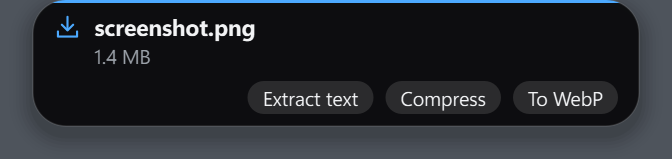
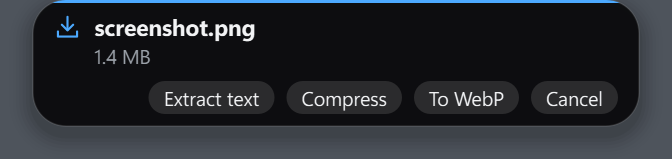
Cancel on a drop, and close the island when its content expires
Both from using the app.

A drop offered its actions with no way to decline. If you dropped the
wrong file, or changed your mind, the only exit was waiting twenty
seconds for the offer to time out, which is a long time to look at a
question you have already answered. Cancel now sits on the right of the
row where a dismiss belongs, and forgets the dropped paths so a later
action cannot act on a cancelled drop.

The second is a real bug. Content that opens the island by itself, like
a drop offer or an alert, never closed it again when it went away. The
clock then sat inside a full-size expanded card until the user happened
to hover the island and move off it, which reads as the window being
stuck. The island now collapses when auto-expanding content is replaced
by something ordinary, unless the cursor is over it, in which case
collapsing under someone's cursor while they read would be worse, or
unless it is pinned open by the control panel.

Neither was reachable by the existing tests, because nothing in the
suite ever let auto-expanding content expire. 12 tests covering the
offer, cancelling, and every branch of the collapse rule.

Changed region(s): [[0.2188, 0.5031, 0.9062, 0.7296]]

diff --git a/tests/test_dropzone.py b/tests/test_dropzone.py
@@ -1,0 +1,160 @@
+"""Drop-to-Action flow, and the island's collapse behaviour around it.
+
+Both of the tests about cancelling and collapsing exist because of
+feedback from using the app. The collapse one in particular was a bug the
+suite could never have caught, because nothing in it ever let a piece of
+auto-expanding content expire.
+"""
+
+from __future__ import annotations
+
+import pytest
+
+from core.config import DEFAULTS, Settings, _deep_merge
+from core.island_window import IslandWindow
+from core.model import IslandContent, Priority
+from core.theme import load_theme
+from workers.dropzone import DropActionProvider
+
+
+@pytest.fixture
+def settings(tmp_path):
+    return Settings(_deep_merge(DEFAULTS, {}), tmp_path / "settings.json")
+
+
+@pytest.fixture
+def provider(arbiter, qapp):
+    return DropActionProvider(arbiter)
+
+
+@pytest.fixture
+def window(qapp):
+    instance = IslandWindow(load_theme(None))
+    yield instance
+    instance.close()
+    instance.deleteLater()
+
+
+def make_png(path):
+    pytest.importorskip("PIL", reason="Pillow is an optional feature pack")
+    from PIL import Image
+
+    Image.new("RGB", (80, 60), (200, 40, 40)).save(path)
+    return path
+
+
+# ---- the offer -----------------------------------------------------------
+
+
+def test_dropping_a_file_offers_actions(provider, arbiter, tmp_path):
+    make_png(tmp_path / "shot.png")
+    provider.handle_drop([str(tmp_path / "shot.png")])
+    content = arbiter.current()
+    assert content.key == "drop.offer"
+    labels = [a.label for a in content.actions]
+    assert "Extract text" in labels
+    assert "Compress" in labels
+
+
+def test_the_offer_can_be_cancelled(provider, arbiter, tmp_path):
+    # Without this the only way out of a mis-drop was to wait for the
+    # offer to time out.
+    make_png(tmp_path / "shot.png")
+    provider.handle_drop([str(tmp_path / "shot.png")])
+    cancel = next(
+        a for a in arbiter.current().actions if a.label == "Cancel"
+    )
+    cancel.callback()
+    assert "drop.offer" not in [c.key for c in arbiter.candidates()]
+
+
+def test_cancel_is_the_rightmost_action(provider, arbiter, tmp_path):
+    make_png(tmp_path / "shot.png")
+    provider.handle_drop([str(tmp_path / "shot.png")])
+    assert arbiter.current().actions[-1].label == "Cancel"
+
+
+def test_cancelling_forgets_the_dropped_files(provider, arbiter, tmp_path):
+    make_png(tmp_path / "shot.png")
+    provider.handle_drop([str(tmp_path / "shot.png")])
+    provider.cancel()
+    # A later action must not operate on the files from a cancelled drop.
+    assert provider._paths == []
+
+
+def test_an_offer_expires_on_its_own(provider, arbiter, tmp_path):
+    make_png(tmp_path / "shot.png")
+    provider.handle_drop([str(tmp_path / "shot.png")])
+    assert arbiter.current().expires_at is not None
+
+
+def test_dropping_nothing_usable_is_reported(provider, arbiter, tmp_path):
+    missing = tmp_path / "gone.png"
+    provider.handle_drop([str(missing)])
+    content = arbiter.current()
+    assert content.key == "drop.result"
+    assert content.urgency.name == "WARNING"
+
+
+def test_a_directory_is_not_walked(provider, arbiter, tmp_path):
+    folder = tmp_path / "stuff"
+    folder.mkdir()
+    make_png(folder / "a.png")
+    provider.handle_drop([str(folder)])
+    # Recursing into a dropped folder could process thousands of files.
+    assert arbiter.current().key == "drop.result"
+
+
+# ---- the island collapsing again ----------------------------------------
+
+
+def expand_content(key: str) -> IslandContent:
+    return IslandContent(
+        key=key, priority=Priority.ACTIVITY, title="drop", auto_expand=True
+    )
+
+
+def plain_content(key: str = "ambient.clock") -> IslandContent:
+    return IslandContent(key=key, priority=Priority.AMBIENT, title="09:41")
+
+
+def test_auto_expanding_content_opens_the_island(window):
+    window.set_content(plain_content())
+    assert window.is_expanded() is False
+    window.set_content(expand_content("drop.offer"))
+    assert window.is_expanded() is True
+
+
+def test_the_island_closes_when_that_content_goes_away(window):
+    """The bug: it used to stay open around whatever replaced it.
+
+    Nothing collapsed the island once the thing that had opened it
+    expired, so the clock sat in a full-size card until the user happened
+    to hover the island and move away again.
+    """
+    window.set_content(expand_content("drop.offer"))
+    assert window.is_expanded() is True
+    window.set_content(plain_content())
+    assert window.is_expanded() is False
+
+
+def test_hovering_keeps_it_open(window):
+    window.set_content(expand_content("drop.offer"))
+    window._hovered = True
+    window.set_content(plain_content())
+    # Collapsing under the cursor while someone is reading would be worse.
+    assert window.is_expanded() is True
+
+
+def test_a_pinned_island_stays_open(window):
+    window.set_content(expand_content("drop.offer"))
+    window.set_pinned(True)
+    window.set_content(plain_content())
+    # The control panel hangs off the island's lower edge.
+    assert window.is_expanded() is True
+
+
+def test_one_auto_expanding_item_replacing_another_stays_open(window):
+    window.set_content(expand_content("drop.offer"))
+    window.set_content(expand_content("drop.working"))
+    assert window.is_expanded() is True

diff --git a/workers/dropzone.py b/workers/dropzone.py
@@ -145,6 +145,11 @@ class DropActionProvider(QObject):
             )
             for operation in operations
         )
+        # Cancel last, so it sits on the right where a dismiss belongs.
+        # Without it the only way out of a mis-drop was to wait for the
+        # offer to time out, which is a long time to stare at a question
+        # you have already answered.
+        actions += (Action("Cancel", self.cancel),)
         self._handle.publish_content(
             IslandContent(
                 key="drop.offer",
@@ -159,6 +164,11 @@ class DropActionProvider(QObject):
                 expires_at=ProviderHandle.ttl(OFFER_TTL),
             )
         )
+
+    def cancel(self) -> None:
+        """Dismiss an unanswered offer and forget what was dropped."""
+        self._paths = []
+        self._handle.retract("offer")
 
     def _start(self, operation: media.Operation) -> None:
         if self._busy or not self._paths:

diff --git a/core/island_window.py b/core/island_window.py
@@ -249,6 +249,18 @@ class IslandWindow(QWidget):
 
         if content.auto_expand and not self._expanded:
             self.set_expanded(True)
+        elif (
+            self._expanded
+            and not content.auto_expand
+            and not self._hovered
+            and not self._pinned
+        ):
+            # Content that opened the island by itself has to close it
+            # again when it goes away. Without this the island stays
+            # expanded around whatever took over, usually the clock, and
+            # only snaps back when the user happens to hover it and
+            # leave, which looks like it is stuck.
+            self.set_expanded(False)
         self._refresh_interactivity()
 
     def content(self) -> IslandContent | None:

diff --git a/scripts/preview.py b/scripts/preview.py
@@ -161,6 +161,7 @@ def states() -> list[tuple[str, IslandContent, bool]]:
                     Action("Extract text", lambda: None),
                     Action("Compress", lambda: None),
                     Action("To WebP", lambda: None),
+                    Action("Cancel", lambda: None),
                 ),
                 auto_expand=True,
             ),
